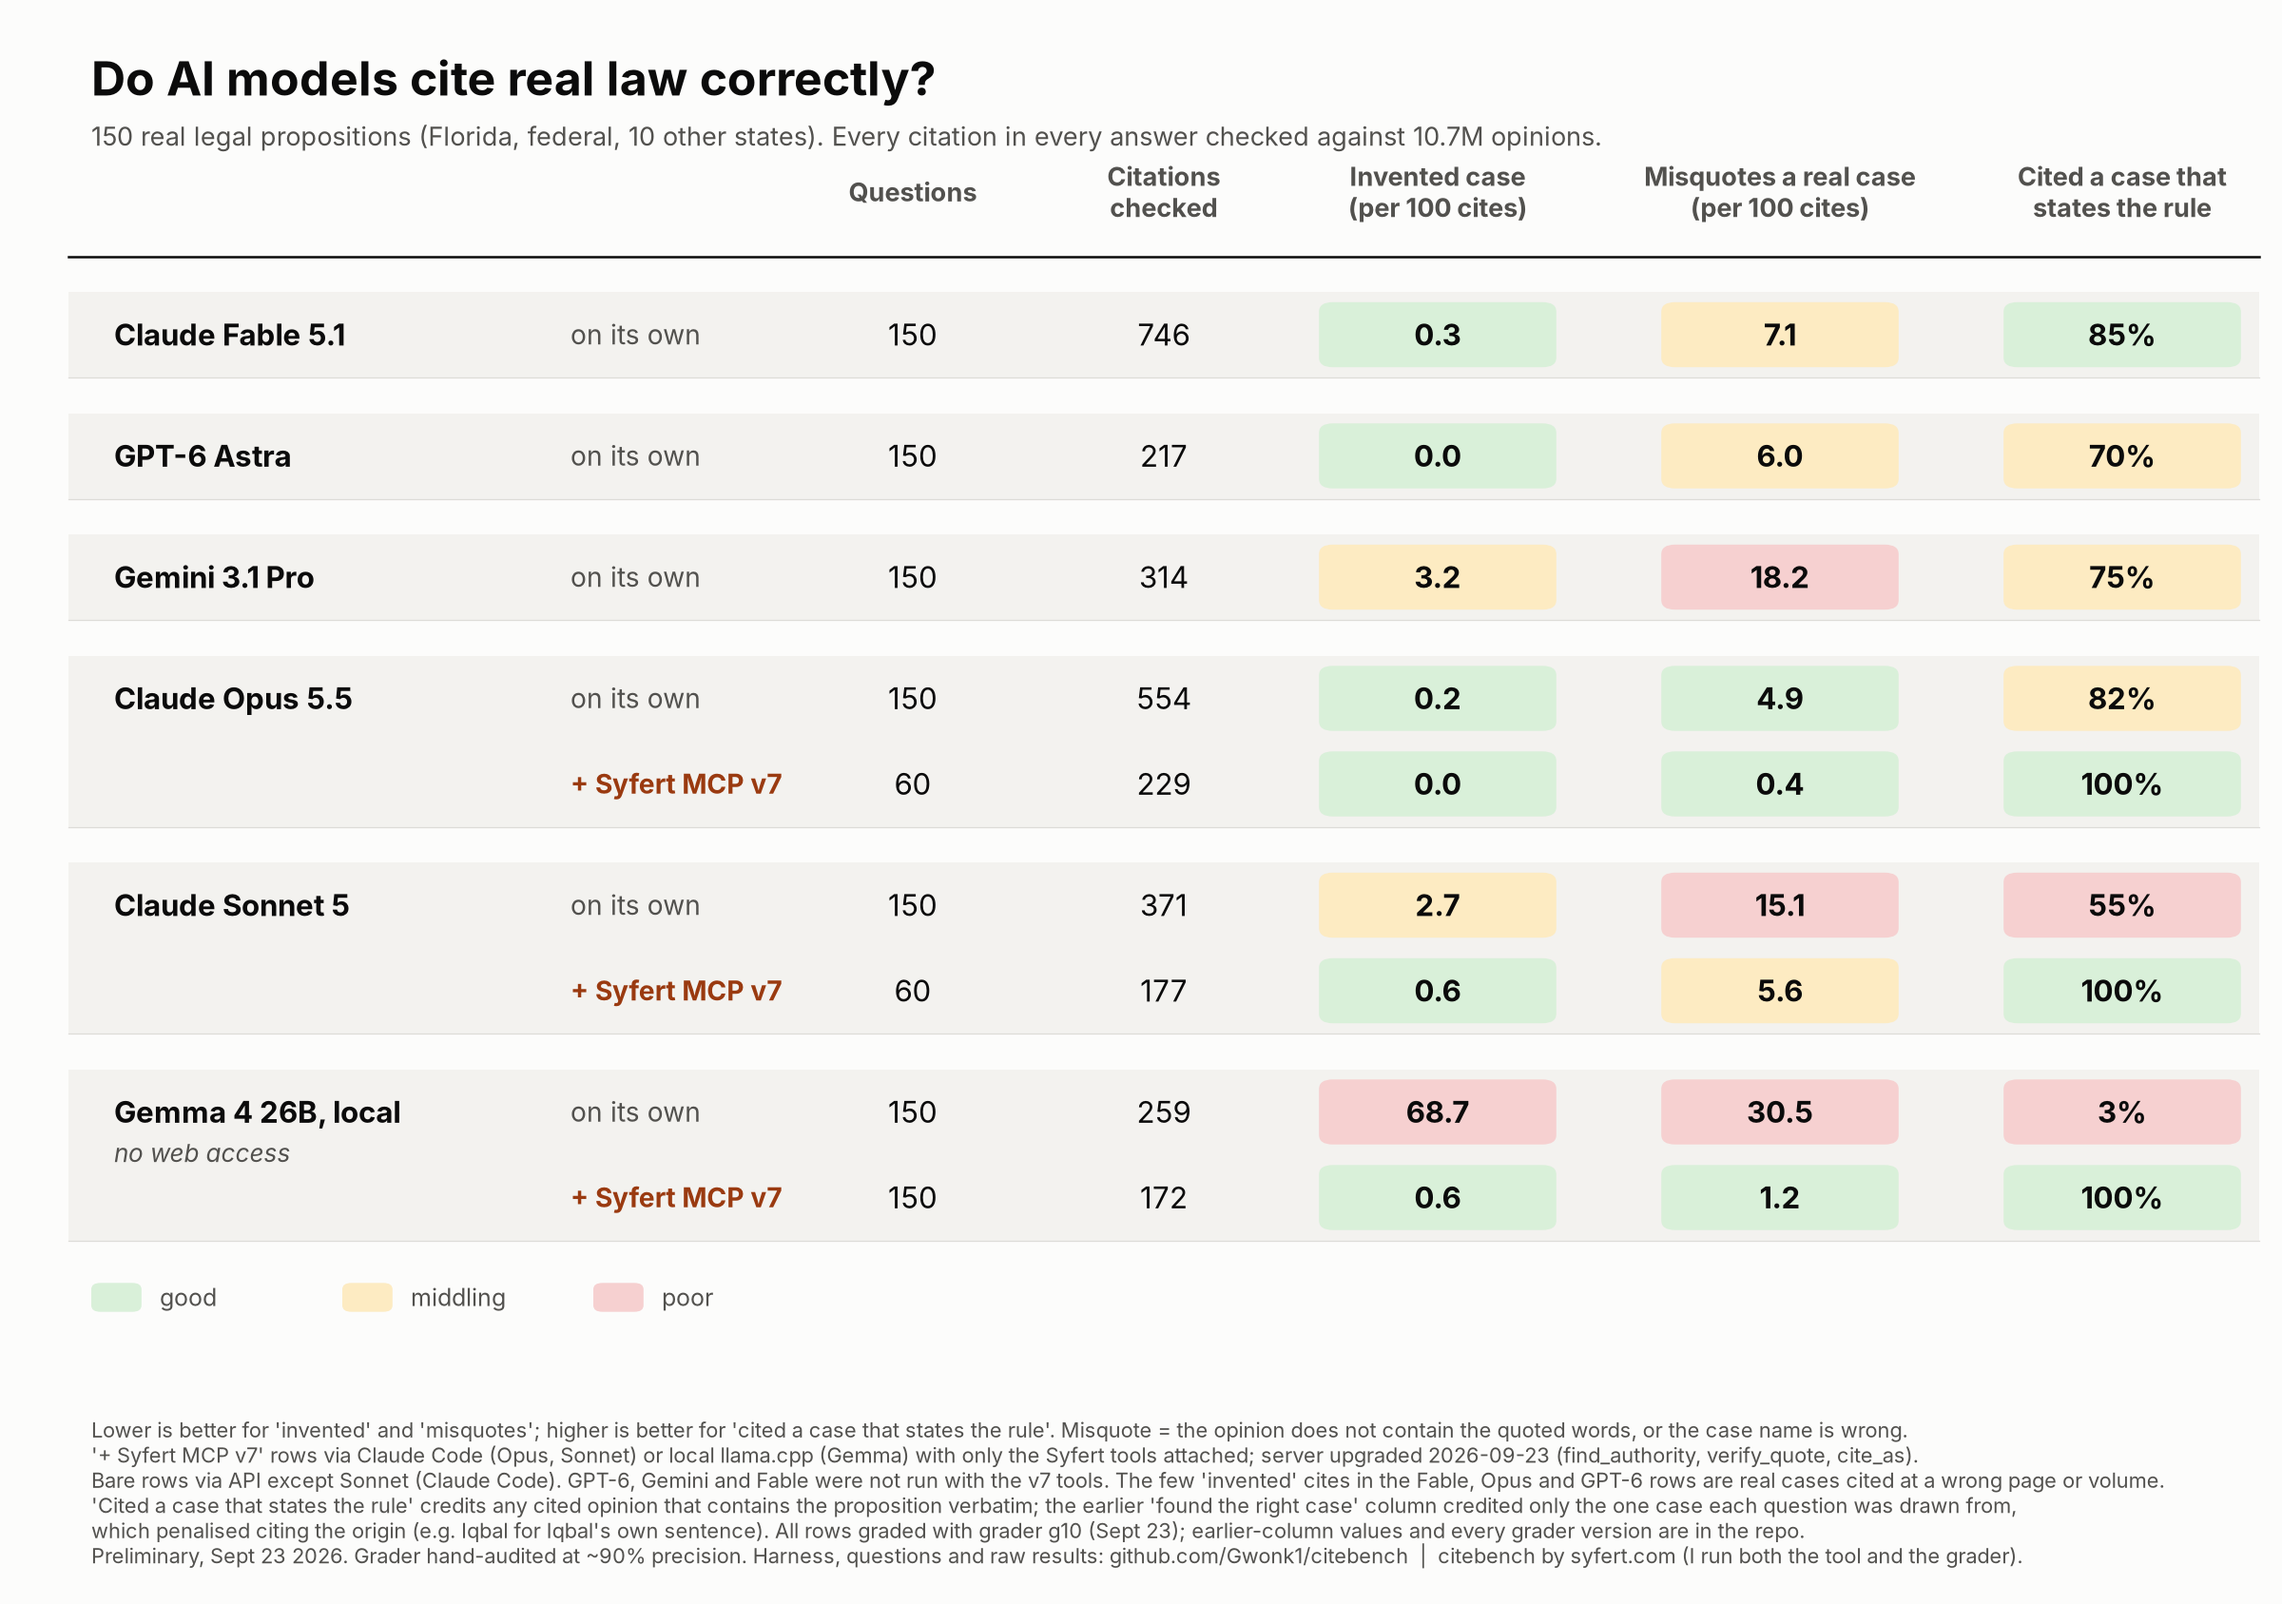
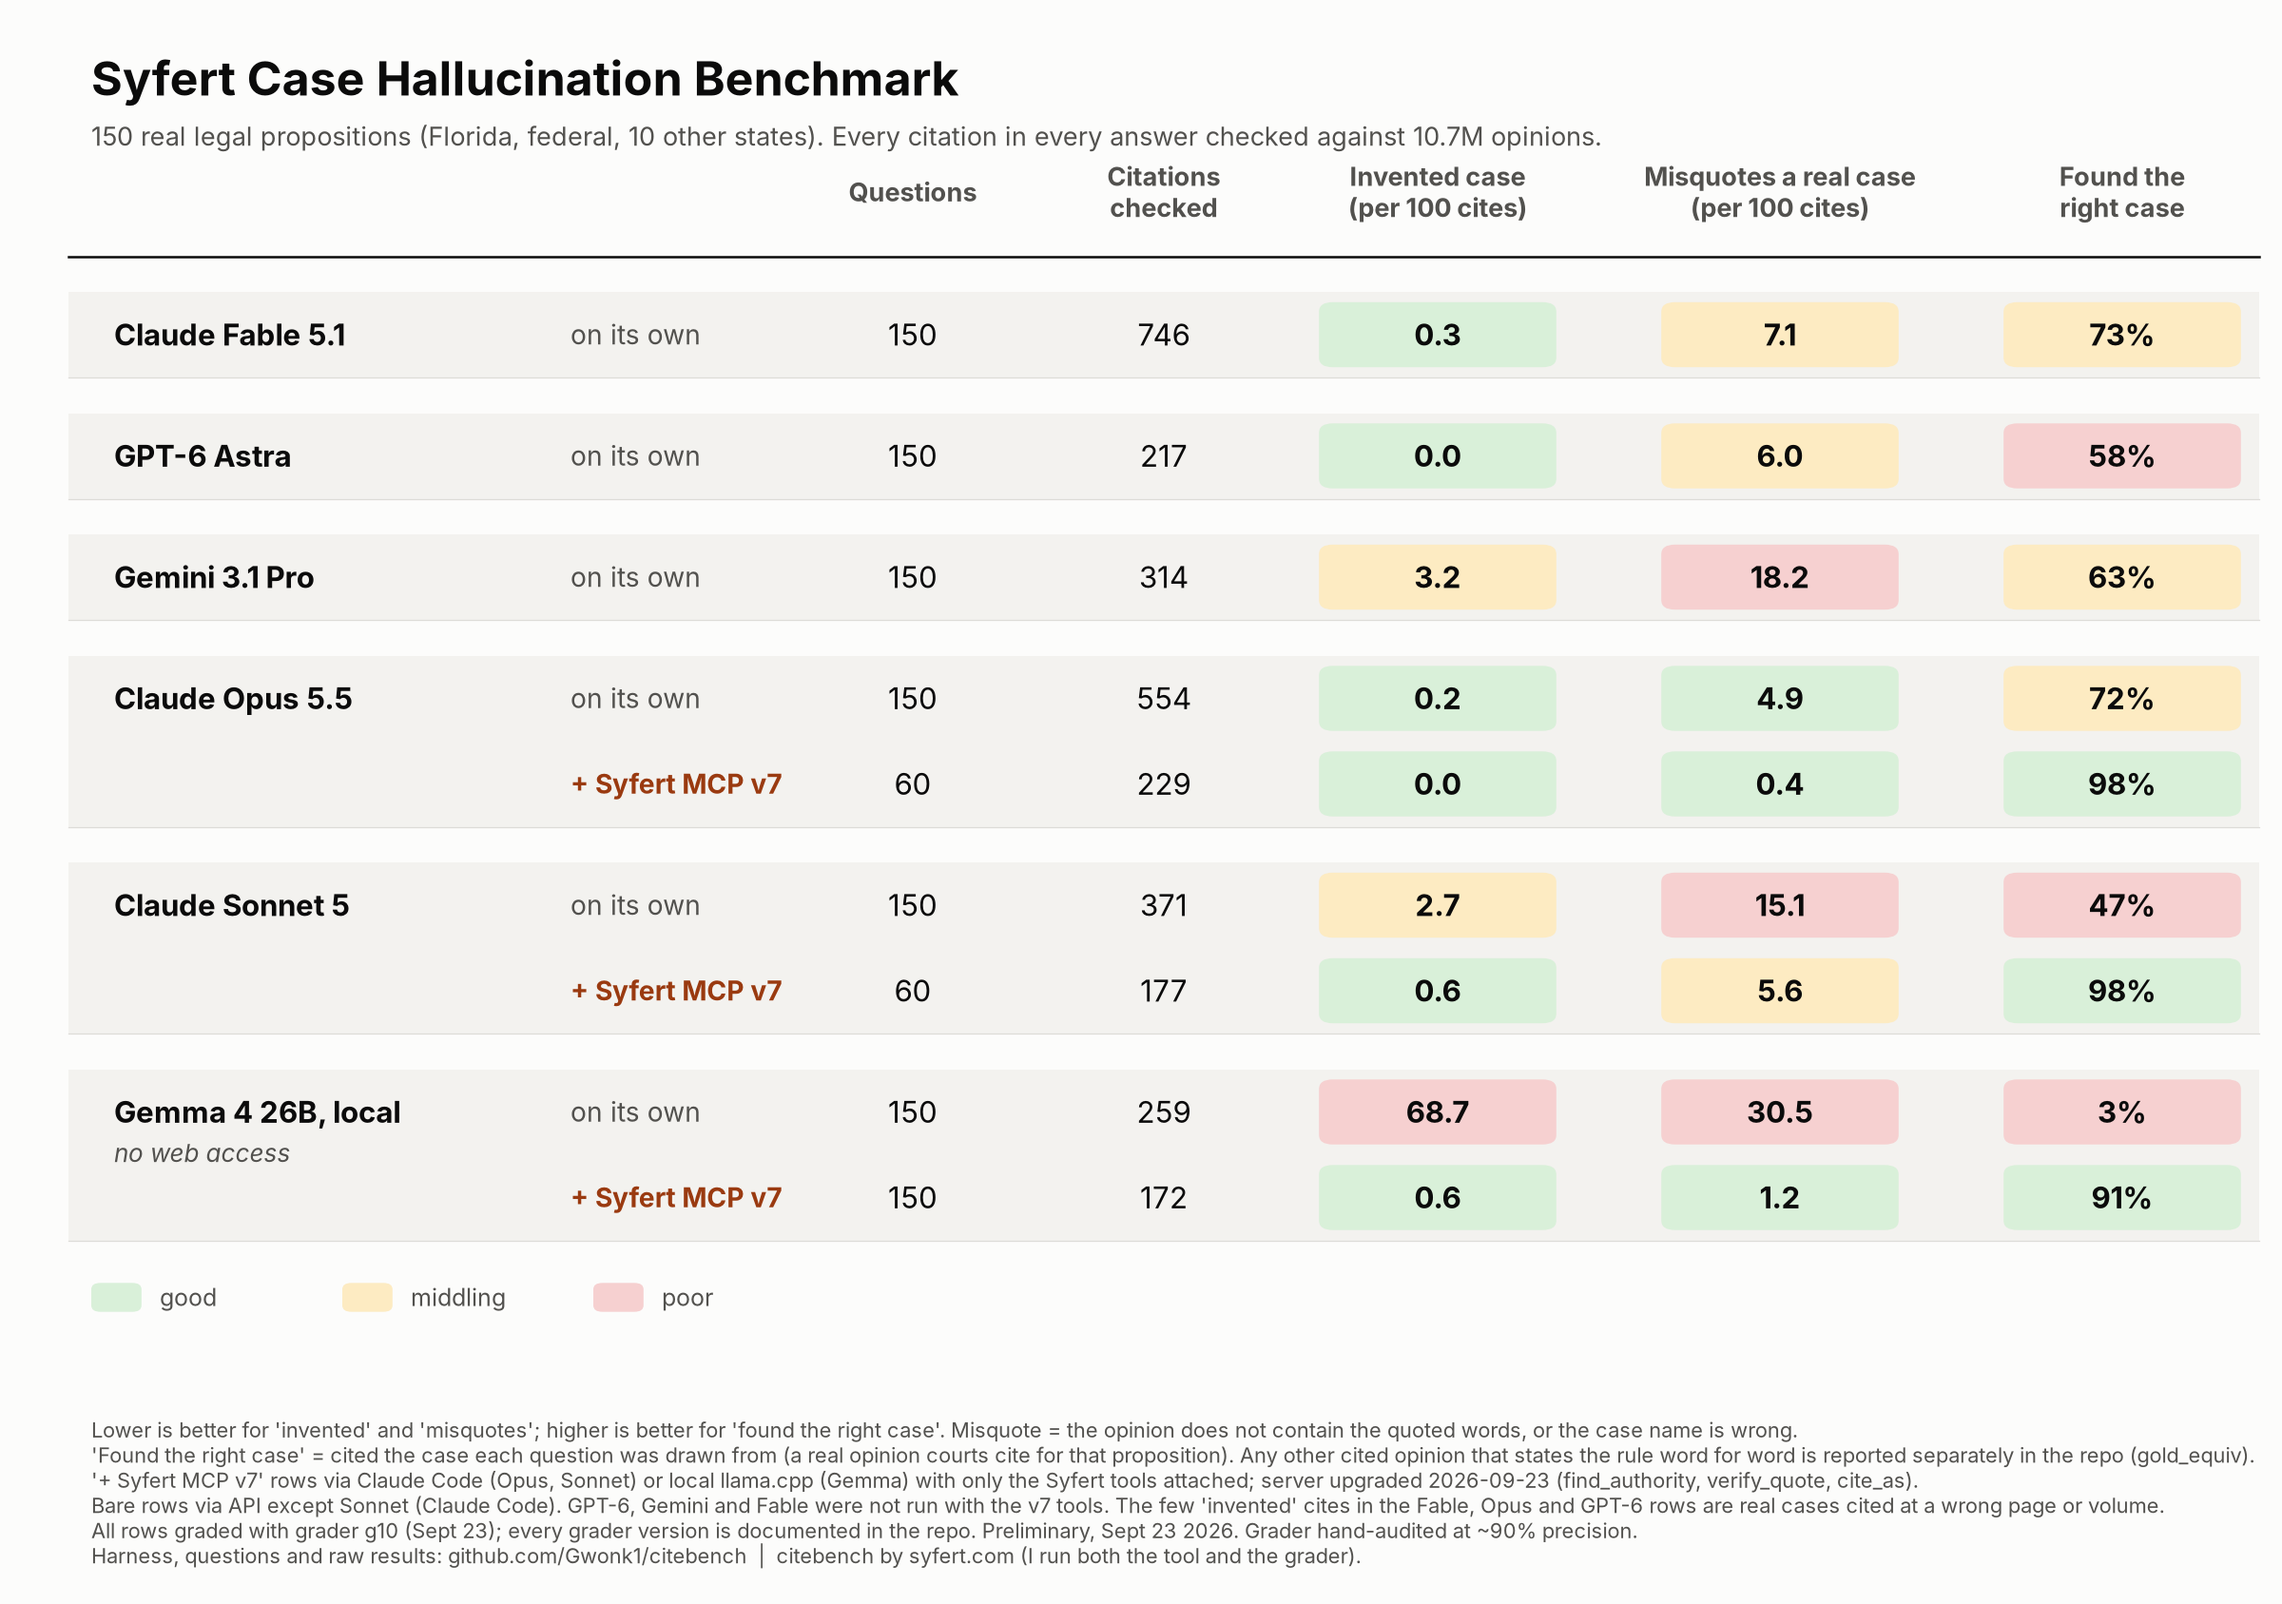
table image: title 'Syfert Case Hallucination Benchmark'; last column back to gold_recall (found the right case)
Claude-Session: https://claude.ai/code/session_01Nzq7AZufucoiZGhzbSCgLB

diff --git a/publish/charts/make_reddit_table2.py b/publish/charts/make_reddit_table2.py
@@ -16,7 +16,7 @@ def read_report(fname):
             idx = {k: i for i, k in enumerate(c)}; continue
         if idx is None or len(c) != len(idx) or ":" not in c[2]: continue
         p = lambda k: float(c[idx[k]].rstrip("%"))
-        r = dict(n=int(c[idx["answered"]]), cites=int(c[idx["cites"]]), fab=p("fabricated_rate"), misgr=p("misgrounded_rate"), gold=p("gold_equiv"))
+        r = dict(n=int(c[idx["answered"]]), cites=int(c[idx["cites"]]), fab=p("fabricated_rate"), misgr=p("misgrounded_rate"), gold=p("gold_recall"))
         out.setdefault((c[0], c[1]), r); out[c[2]] = r
     return out
 # Every row comes from the current results/report_150.md (grader g10); the last column is gold_equiv.
@@ -43,9 +43,9 @@ plt.rcParams.update({"font.family": ["Inter", "DejaVu Sans"]})
 nrows = sum(sum(1 for k in ks if k) for _, *ks in MODELS)
 H = 4.35 + 0.6 * nrows + 0.25 * len(MODELS)
 fig = plt.figure(figsize=(16, H), dpi=150, facecolor=SURF); ax = fig.add_axes([0, 0, 1, 1]); ax.set_axis_off(); ax.set_xlim(0, 100); ax.set_ylim(0, 100)
-fig.text(0.04, 1 - 0.35 / H, "Do AI models cite real law correctly?", fontsize=24, fontweight="bold", color=INK, va="top")
+fig.text(0.04, 1 - 0.35 / H, "Syfert Case Hallucination Benchmark", fontsize=24, fontweight="bold", color=INK, va="top")
 fig.text(0.04, 1 - 0.85 / H, "150 real legal propositions (Florida, federal, 10 other states). Every citation in every answer checked against 10.7M opinions.", fontsize=13, color=INK2, va="top")
-HEAD = ["", "Questions", "Citations\nchecked", "Invented case\n(per 100 cites)", "Misquotes a real case\n(per 100 cites)", "Cited a case that\nstates the rule"]
+HEAD = ["", "Questions", "Citations\nchecked", "Invented case\n(per 100 cites)", "Misquotes a real case\n(per 100 cites)", "Found the\nright case"]
 cols = [4, 40, 51, 63, 78, 93]
 rh, gap = 100 * 0.6 / H, 100 * 0.25 / H
 y = 100 * (1 - 1.35 / H)
@@ -74,6 +74,6 @@ for name, bkey, tkey, vkey in MODELS:
 ly = y - gap * 1.6
 for i, (c, t) in enumerate(((GOOD, "good"), (WARN, "middling"), (BAD, "poor"))):
     ax.add_patch(FancyBboxPatch((4 + i * 11, ly - 0.9), 2.2, 1.8, boxstyle="round,pad=0,rounding_size=0.4", color=c, lw=0)); ax.text(7 + i * 11, ly, t, va="center", fontsize=12, color=INK2)
-FOOT = ["Lower is better for 'invented' and 'misquotes'; higher is better for 'cited a case that states the rule'. Misquote = the opinion does not contain the quoted words, or the case name is wrong.", "'+ Syfert MCP v7' rows via Claude Code (Opus, Sonnet) or local llama.cpp (Gemma) with only the Syfert tools attached; server upgraded 2026-09-23 (find_authority, verify_quote, cite_as).", "Bare rows via API except Sonnet (Claude Code). GPT-6, Gemini and Fable were not run with the v7 tools. The few 'invented' cites in the Fable, Opus and GPT-6 rows are real cases cited at a wrong page or volume.", "'Cited a case that states the rule' credits any cited opinion that contains the proposition verbatim; the earlier 'found the right case' column credited only the one case each question was drawn from,", "which penalised citing the origin (e.g. Iqbal for Iqbal's own sentence). All rows graded with grader g10 (Sept 23); earlier-column values and every grader version are in the repo.", 'Preliminary, Sept 23 2026. Grader hand-audited at ~90% precision. Harness, questions and raw results: github.com/Gwonk1/citebench  |  citebench by syfert.com (I run both the tool and the grader).']
+FOOT = ["Lower is better for 'invented' and 'misquotes'; higher is better for 'found the right case'. Misquote = the opinion does not contain the quoted words, or the case name is wrong.", "'Found the right case' = cited the case each question was drawn from (a real opinion courts cite for that proposition). Any other cited opinion that states the rule word for word is reported separately in the repo (gold_equiv).", "'+ Syfert MCP v7' rows via Claude Code (Opus, Sonnet) or local llama.cpp (Gemma) with only the Syfert tools attached; server upgraded 2026-09-23 (find_authority, verify_quote, cite_as).", "Bare rows via API except Sonnet (Claude Code). GPT-6, Gemini and Fable were not run with the v7 tools. The few 'invented' cites in the Fable, Opus and GPT-6 rows are real cases cited at a wrong page or volume.", 'All rows graded with grader g10 (Sept 23); every grader version is documented in the repo. Preliminary, Sept 23 2026. Grader hand-audited at ~90% precision.', 'Harness, questions and raw results: github.com/Gwonk1/citebench  |  citebench by syfert.com (I run both the tool and the grader).']
 fig.text(0.04, 0.25 / H, "\n".join(FOOT), fontsize=10.5, color=INK2, va="bottom")
 out = os.path.join(ROOT, "publish", "charts", "reddit_table.png"); fig.savefig(out, facecolor=SURF); print("wrote", out)
